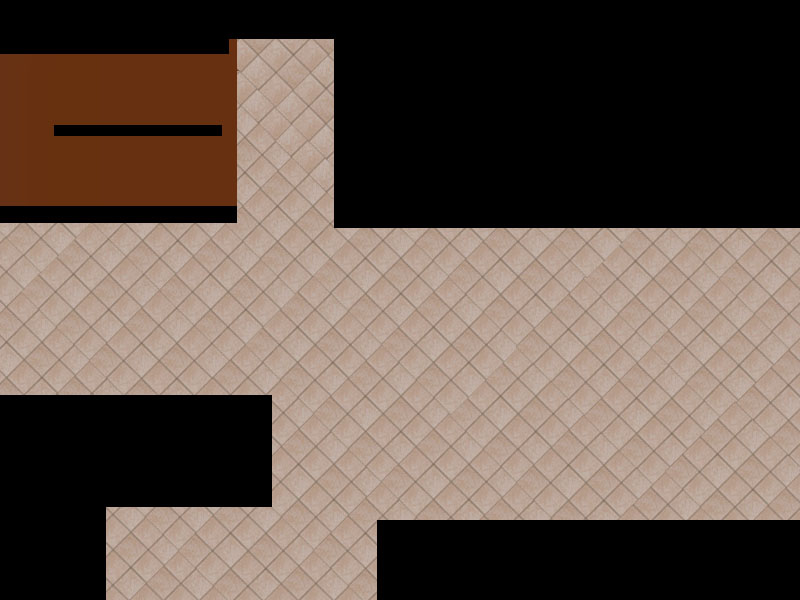
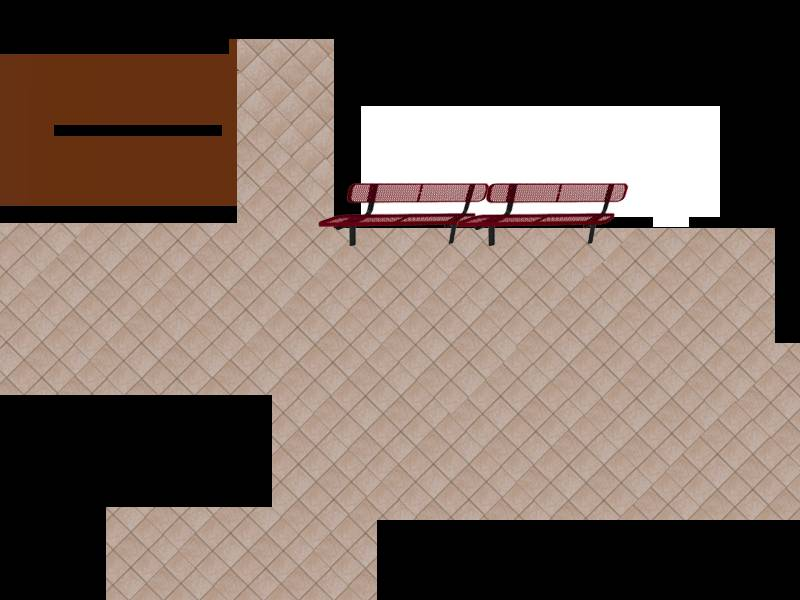
Add map 2

Changed region(s): [[0.375, 0.15, 0.9062, 0.42], [0.9688, 0.36, 1.0, 0.57]]

diff --git a/static/game.js b/static/game.js
@@ -63,54 +63,60 @@ socket.on('state', function (data) {
     context.clearRect(0, 0, 800, 600);
     for (id in data['players']) {
         let player = data['players'][id];
-        let img = playerImage('n');
-        switch (player.direction) {
-            case 'n':
-                break;
-            case 'ne':
-                img = playerImage('ne');
-                break;
-            case 'e':
-                img = playerImage('e');
-                break;
-            case 'se':
-                img = playerImage('se');
-                break;
-            case 's':
-                img = playerImage('s');
-                break;
-            case 'sw':
-                img = playerImage('sw');
-                break;
-            case 'w':
-                img = playerImage('w');
-                break;
-            case 'nw':
-                img = playerImage('nw');
-                break;
+        let me = data['players'][socket.id];
+        if (me && player.map === data['players'][socket.id].map) {
+            let img = playerImage('n');
+            switch (player.direction) {
+                case 'n':
+                    break;
+                case 'ne':
+                    img = playerImage('ne');
+                    break;
+                case 'e':
+                    img = playerImage('e');
+                    break;
+                case 'se':
+                    img = playerImage('se');
+                    break;
+                case 's':
+                    img = playerImage('s');
+                    break;
+                case 'sw':
+                    img = playerImage('sw');
+                    break;
+                case 'w':
+                    img = playerImage('w');
+                    break;
+                case 'nw':
+                    img = playerImage('nw');
+                    break;
+            }
+            canvas.style.backgroundImage = 'url("static/map/'+me.map+'.jpg")';
+            context.drawImage(img, player.x, player.y);
+            context.fillStyle = 'red';
+            if (id === socket.id)
+                context.fillStyle = 'green';
+            context.fillText(player.nick, player.x + 15, player.y);
         }
-        context.drawImage(img, player.x, player.y);
-        context.fillStyle = 'red';
-        if (id === socket.id)
-            context.fillStyle = 'green';
-        context.fillText(player.nick, player.x + 15, player.y);
     }
     context.fillStyle = 'red';
     for (id in data['bullets']) {
         let bullet = data['bullets'][id];
-        context.beginPath();
-        context.arc(bullet.x, bullet.y, 5, 0, 2 * Math.PI);
-        context.fill();
         let me = data['players'][socket.id];
-        let dist = Math.sqrt(Math.pow(me.x + 37 - bullet.x, 2) + Math.pow(me.y + 25 - bullet.y, 2));
-        if (dist < 60 && socket.id !== bullet.shooter) {
-            socket.emit('player killed');
-            clearInterval(moveInterval);
-            if (confirm("You were killed. Respawn?")) {
-                socket.emit('new player', myNick); // fixme kill is still weird
-                moveInterval = setInterval(function () {
-                    socket.emit('movement', movement);
-                }, 1000 / 60);
+        if (me && bullet.map === me.map) {
+            context.beginPath();
+            context.arc(bullet.x, bullet.y, 5, 0, 2 * Math.PI);
+            context.fill();
+            let dist = Math.sqrt(Math.pow(me.x + 37 - bullet.x, 2) + Math.pow(me.y + 25 - bullet.y, 2));
+            if (dist < 60 && socket.id !== bullet.shooter) {
+                socket.emit('player killed');
+                clearInterval(moveInterval);
+                if (confirm("You were killed. Respawn?")) {
+                    socket.emit('new player', myNick); // fixme kill is still weird
+                    moveInterval = setInterval(function () {
+                        socket.emit('movement', movement);
+                    }, 1000 / 60);
+                }
             }
         }
     }

diff --git a/server.js b/server.js
@@ -22,6 +22,7 @@ let bullets = {};
 io.on('connection', function (socket) {
     socket.on('new player', function (data) {
         players[socket.id] = {
+            map: Math.floor(Math.random() * 2) + 1,
             x: Math.floor(Math.random() * 400) + 200,
             y: Math.floor(Math.random() * 400) + 100,
             direction: 'e',
@@ -33,11 +34,21 @@ io.on('connection', function (socket) {
         if (data.left && player.x > 3) {
             player.x -= 3;
         }
+        else if (player.x <= 3 && player.map === 2) {
+            player.map = 1;
+            player.x = 760;
+            player.y = 385;
+        }
         if (data.up && player.y > 3) {
             player.y -= 3;
         }
         if (data.right && player.x < 765) {
             player.x += 3;
+        }
+        else if (player.x >= 765 && player.map === 1) {
+            player.map = 2;
+            player.x = 8;
+            player.y = 220;
         }
         if (data.down && player.y < 560) {
             player.y += 3;
@@ -48,6 +59,7 @@ io.on('connection', function (socket) {
         if (player) {
             bullets[socket.id] = {
                 shooter: socket.id,
+                map: player.map,
                 x: player.x+37,
                 y: player.y+25,
                 vx: data.x - player.x - 37,

diff --git a/index.html b/index.html
@@ -6,7 +6,6 @@
             width: 800px;
             height: 600px;
             border: 5px solid black;
-            background-image: url("static/map/1.jpg");
         }
     </style>
     <script src="/socket.io/socket.io.js"></script>
